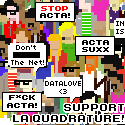
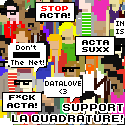
new images, animated

diff --git a/60_footer.php b/60_footer.php
@@ -35,12 +35,23 @@
                         <br clear="all" />
                         <div class="spread">
                                 <a href="<?php echo ROOTURL; ?>" title="<?php __("Support La Quadrature du Net against ACTA and beyond!"); ?>" alt="<?php __("Support La Quadrature du Net against ACTA and beyond!"); ?>"><br />
+                                <img src="images/LQDN_support_against_ACTA_and_beyond_468*60.gif" alt="<?php __("Support La Quadrature du Net against ACTA and beyond!"); ?>" /><br /></a><br />
+                                <br /><?php __("Add this image to your website:"); ?><br />
+                                <textarea rows="3" cols="60" style="max-width:100%; font-size:0.9em; overflow: hidden;" onclick="this.select();" ><a href=&quot;<?php echo ROOTURL; ?>&quot; title=&quot;<?php __("Support La Quadrature du Net against ACTA and beyond!"); ?>&quot; alt=&quot;<?php __("Support La Quadrature du Net against ACTA and beyond!"); ?>&quot;&gt;&lt;img src="<?php echo ROOTURL; ?>images/LQDN_support_against_ACTA_and_beyond_468*60.gif" alt="<?php __("Support La Quadrature du Net against ACTA and beyond!"); ?>" /&gt;&lt;/a&gt;</textarea>
+                        </div>
+                        <div class="spread">
+                                <a href="<?php echo ROOTURL; ?>" title="<?php __("Support La Quadrature du Net against ACTA and beyond!"); ?>" alt="<?php __("Support La Quadrature du Net against ACTA and beyond!"); ?>"><br />
                                 <img src="images/LQDN_support_against_ACTA_and_beyond_468*60.png" alt="<?php __("Support La Quadrature du Net against ACTA and beyond!"); ?>" /><br /></a><br />
                                 <br /><?php __("Add this image to your website:"); ?><br />
                                 <textarea rows="3" cols="60" style="max-width:100%; font-size:0.9em; overflow: hidden;" onclick="this.select();" ><a href=&quot;<?php echo ROOTURL; ?>&quot; title=&quot;<?php __("Support La Quadrature du Net against ACTA and beyond!"); ?>&quot; alt=&quot;<?php __("Support La Quadrature du Net against ACTA and beyond!"); ?>&quot;&gt;&lt;img src="<?php echo ROOTURL; ?>images/LQDN_support_against_ACTA_and_beyond_468*60.png" alt="<?php __("Support La Quadrature du Net against ACTA and beyond!"); ?>" /&gt;&lt;/a&gt;</textarea>
                         </div>
                         <div class="spread">
-
+                                <a href="<?php echo ROOTURL; ?>" title="<?php __("Support La Quadrature du Net against ACTA and beyond!"); ?>" alt="<?php __("Support La Quadrature du Net against ACTA and beyond!"); ?>"><br />
+                                <img src="images/LQDN_support_against_ACTA_and_beyond_728*90.gif" alt="<?php __("Support La Quadrature du Net against ACTA and beyond!"); ?>" /><br /></a><br />
+                                <br /><?php __("Add this image to your website:"); ?><br />
+                                <textarea rows="3" cols="60" style="max-width:100%; font-size:0.9em; overflow: hidden;" onclick="this.select();" ><a href=&quot;<?php echo ROOTURL; ?>&quot; title=&quot;<?php __("Support La Quadrature du Net against ACTA and beyond!"); ?>&quot; alt=&quot;<?php __("Support La Quadrature du Net against ACTA and beyond!"); ?>&quot;&gt;&lt;img src="<?php echo ROOTURL; ?>images/LQDN_support_against_ACTA_and_beyond_728*90.gif" alt="<?php __("Support La Quadrature du Net against ACTA and beyond!"); ?>" /&gt;&lt;/a&gt;</textarea>
+                        </div>
+                        <div class="spread">
                                 <a href="<?php echo ROOTURL; ?>" title="<?php __("Support La Quadrature du Net against ACTA and beyond!"); ?>" alt="<?php __("Support La Quadrature du Net against ACTA and beyond!"); ?>"><br />
                                 <img src="images/LQDN_support_against_ACTA_and_beyond_728*90.png" alt="<?php __("Support La Quadrature du Net against ACTA and beyond!"); ?>" /><br /></a><br />
                                 <br /><?php __("Add this image to your website:"); ?><br />
